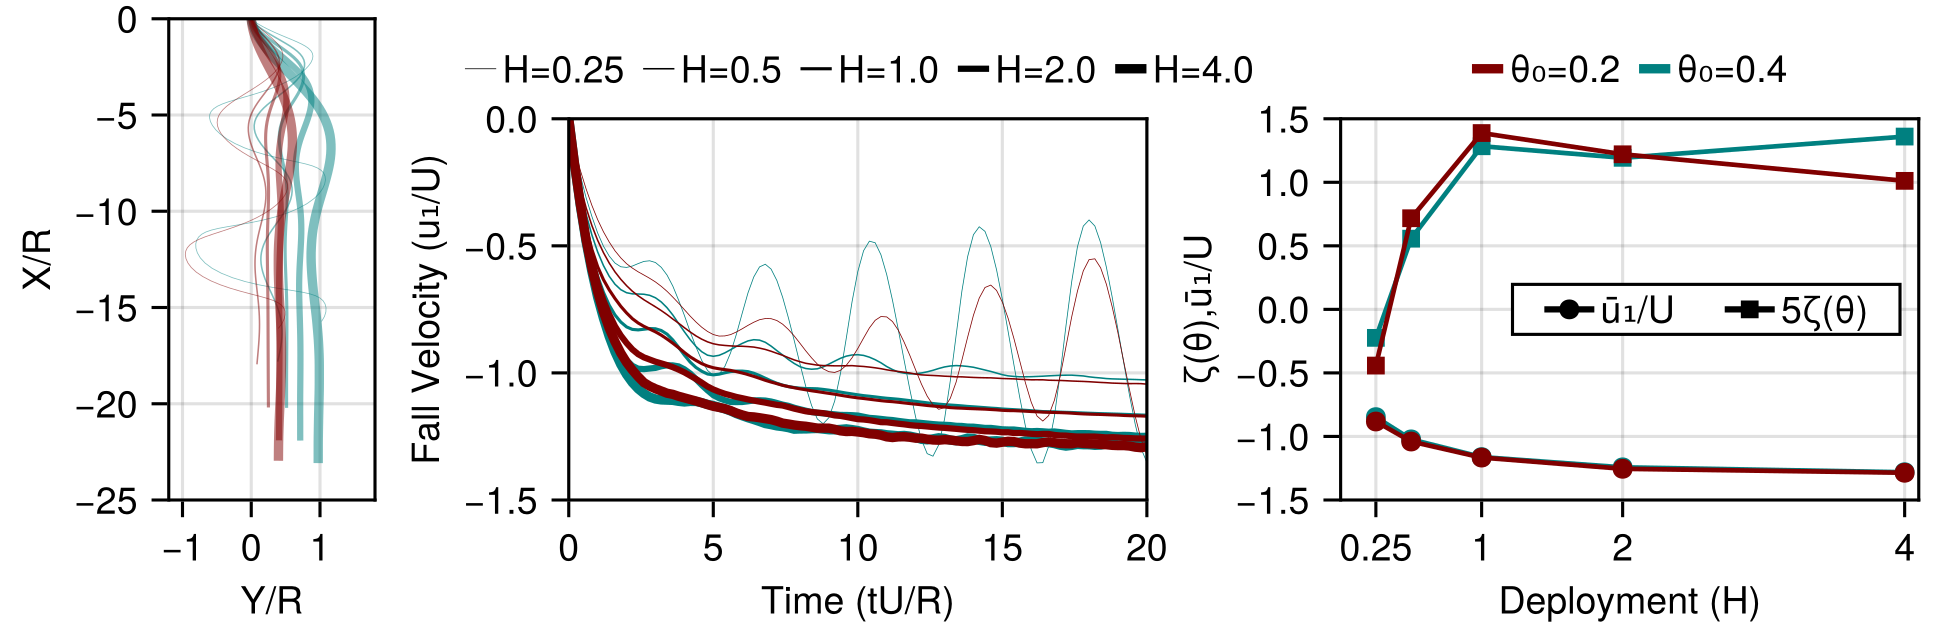
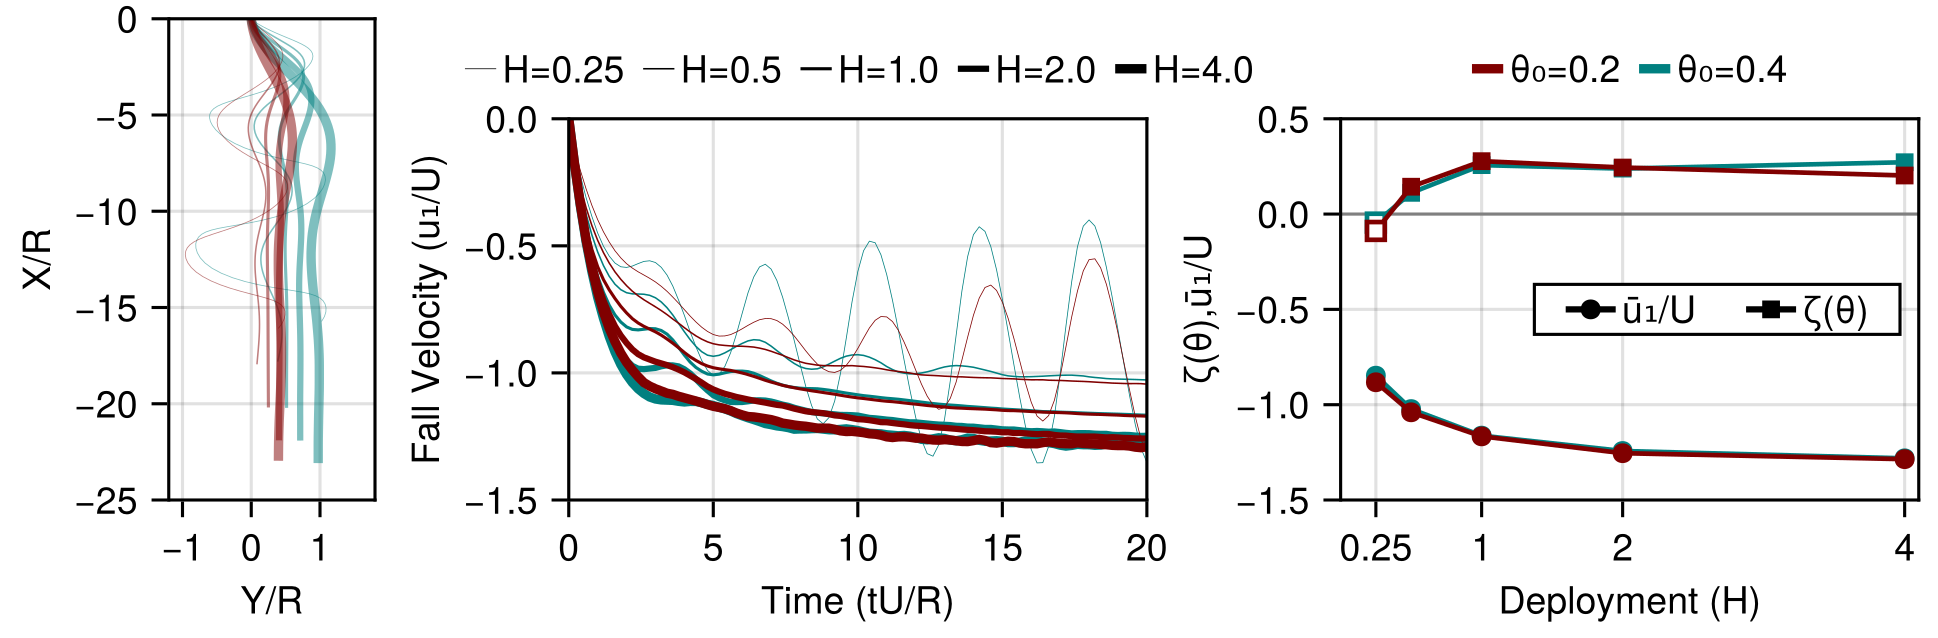
Clean up the damping scaling

diff --git a/paper/JFM_paper.tex b/paper/JFM_paper.tex
@@ -231,7 +231,7 @@ We next study the impact of deployment length on the falling dynamics of the kir
 \begin{figure}
     \centering
     \includegraphics[width=\linewidth]{fig/kirigami_results.png}
-    \caption{(Left) falling path, (center) vertical falling velocity and (right) the damping coefficient and terminal falling velocity of the kirigami parachute for different initial rotation angle $\theta_0$ (line color) and deployment ratio $H$ (line thickness). The damping coefficient is obtained from a log-decrement test of $\theta$ and the terminal falling velocity is the average of the last oscillation cycle.}
+    \caption{(Left) falling path, (center) vertical falling velocity and (right) the damping coefficient and terminal falling velocity of the kirigami parachute for different initial rotation angle $\theta_0$ (line color) and deployment ratio $H$ (line thickness). The damping coefficient is obtained from a log-decrement test of $\theta$ and the terminal falling velocity is the average of the last oscillation cycle. Unstable ($\zeta<0$) cases are marked with open symbols.}
     \label{fig:results}
 \end{figure}
 
